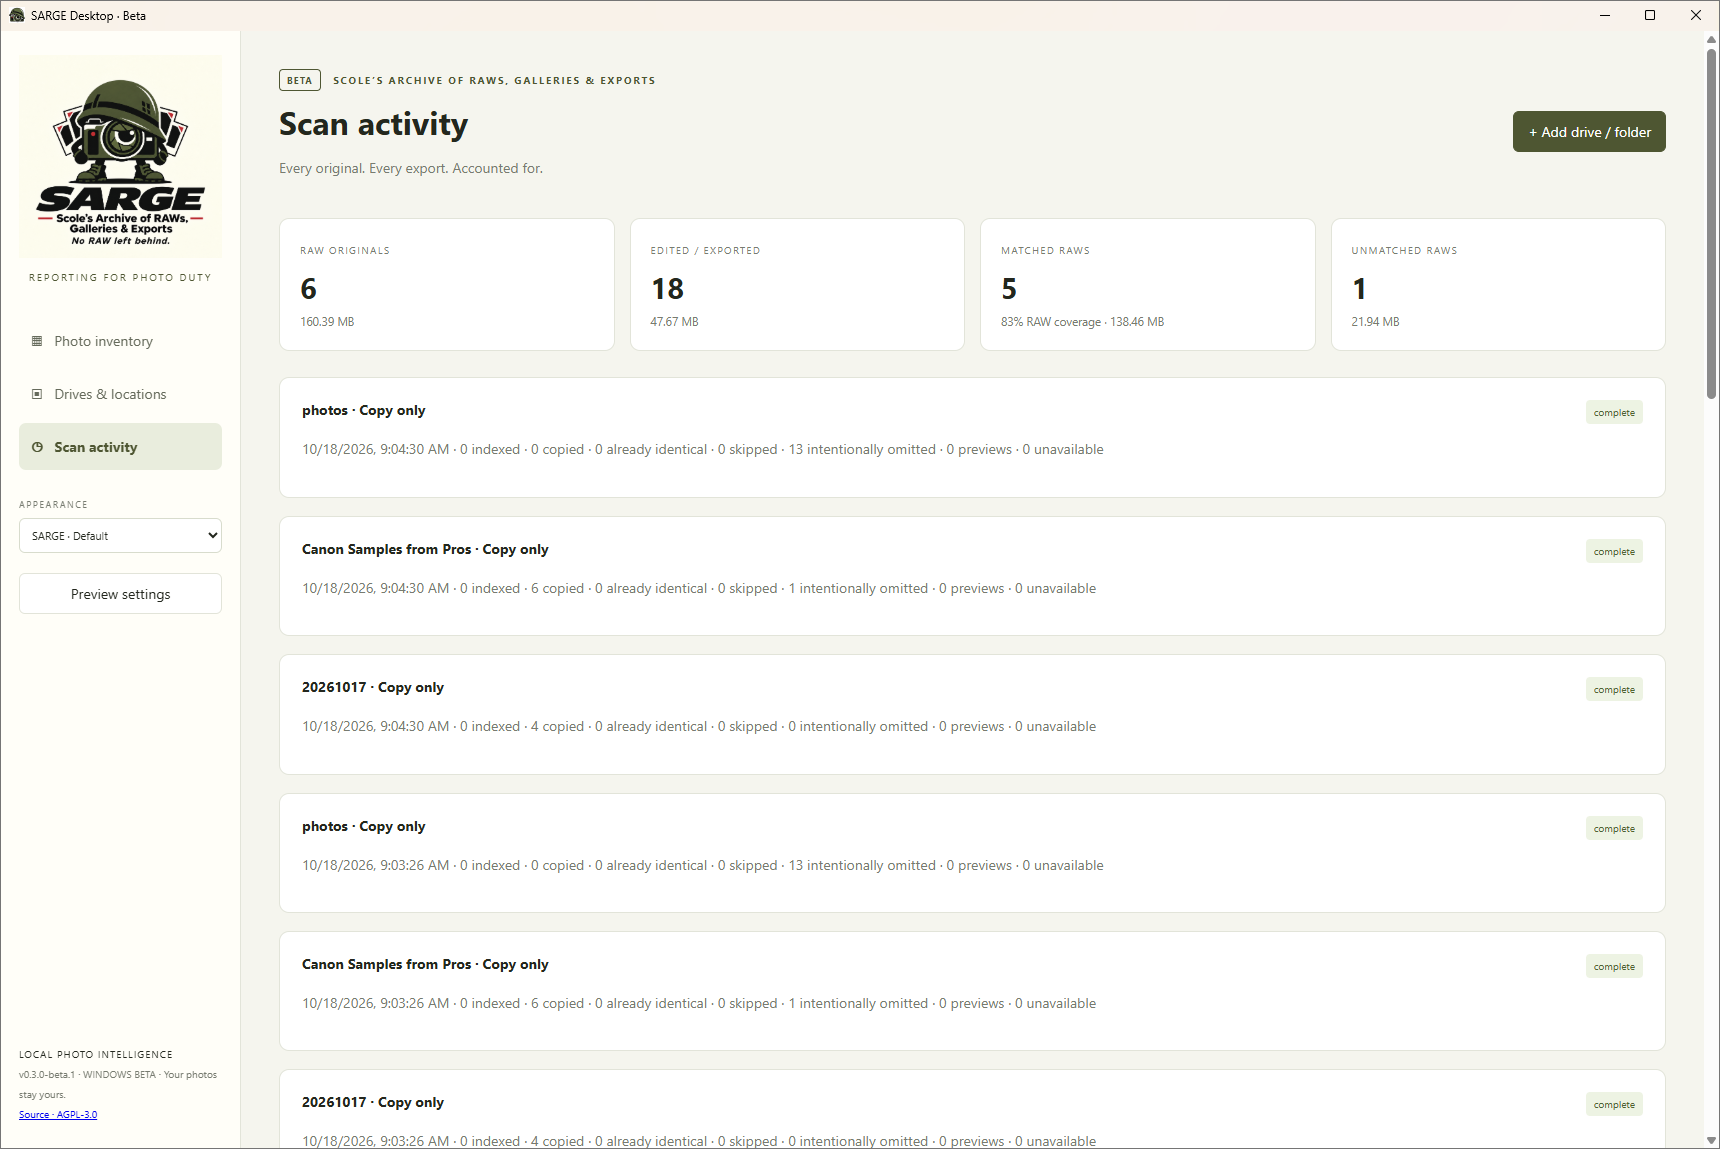
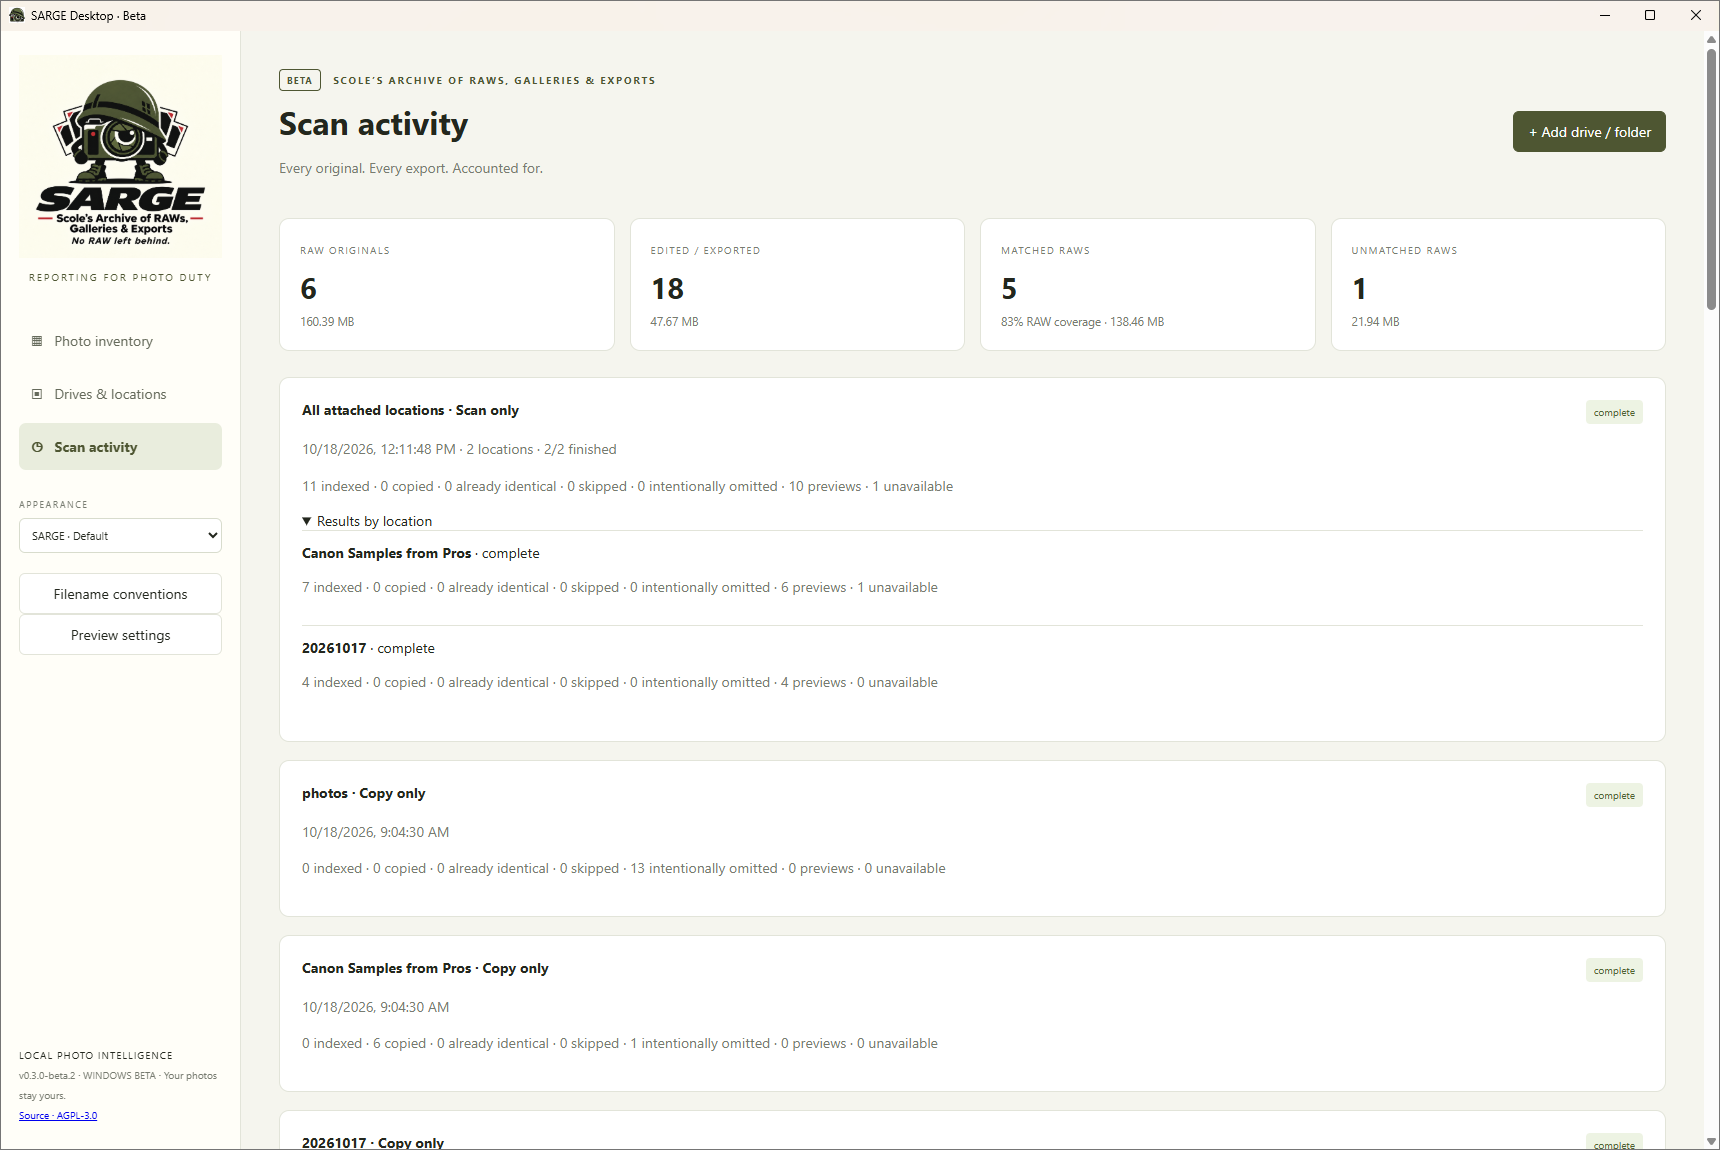
Refresh README with Windows beta 2 screenshots and feature walkthrough

diff --git a/README.md b/README.md
@@ -31,23 +31,53 @@ Windows 10/11 x64 is the primary target. No Docker, Python, helper, or ExifTool 
 
 Use **Appearance** in the sidebar to switch between **SARGE · Default**, with light backgrounds and olive accents, and **Solly’s Soldiers · Dark**, with white text and red, blue and green accents. The logo changes with the theme. Your choice is remembered on this computer.
 
-These captures show the installed Windows beta 0.3.0-beta.1 with a small test photo catalog. Updated captures of the beta.2 summaries, EXIF filters and filename configuration are pending; the images below have not been relabeled as the new version. See the [capture checklist](docs/SCREENSHOTS.md).
+These screenshots show the installed Windows **0.3.0-beta.2** with a sample photo catalog. Standard examples use the default theme; the final example shows Solly’s Soldiers · Dark. See the [capture checklist](docs/SCREENSHOTS.md).
 
-Photo inventory in the default theme, with cached previews, RAW/export match status and saved camera metadata.
+Photo inventory shows previews, RAW/export matches, sortable EXIF columns and filename-derived values. **Camera model (EXIF)** and **Camera body (Mapped)** are separate: the example shows Canon EOS 6D alongside the filename label `1DX`. Shutter speeds display as readable values such as **0.6 s** and **1/60 s**.
 
-![SARGE Desktop Photo inventory in the default theme, showing photo previews, matched RAWs and exports, and saved EXIF columns](docs/images/inventory-default.png)
+![SARGE Desktop beta 2 photo inventory in the default theme, with separate EXIF camera model and mapped camera body columns, previews and readable shutter speeds](docs/images/inventory-default.png)
 
-Drives & locations shows registered sources, online/offline counts and controls for scanning, copying and backing up the catalog.
+<details>
+<summary>More saved metadata columns</summary>
 
-![SARGE Desktop Drives and locations in the default theme, showing three registered locations, two online and one offline](docs/images/drives-default.png)
+Choose additional columns for capture time, dimensions, ISO, aperture, shutter speed and focal length. Saved values remain available when the source drive is disconnected.
 
-Scan activity records completed jobs and their copy, skip and intentionally omitted counts.
+![SARGE Desktop beta 2 inventory showing saved camera, lens, capture time, dimensions, ISO, aperture, shutter speed and focal length](docs/images/inventory-metadata-default.png)
 
-![SARGE Desktop Scan activity in the default theme, showing completed copy jobs and per-job results](docs/images/activity-default.png)
+</details>
 
-The same inventory in Solly’s Soldiers · Dark, with its alternate logo and the Appearance switcher visible.
+Drives & locations highlights registered, online and offline totals. Each location has file counts and sizes for all indexed images, RAW originals, edited/exported files, matched RAWs and unmatched RAWs.
 
-![SARGE Desktop Photo inventory in Solly’s Soldiers dark theme, showing the alternate mascot logo and Appearance selector](docs/images/theme-soldiers.png)
+![SARGE Desktop beta 2 Drives and locations with prominent online and offline totals and per-location counts and storage summaries](docs/images/drives-default.png)
+
+Bulk operations appear as one activity block with combined results. Expand **Results by location** to inspect individual sources; older history without a recorded batch identity remains separate.
+
+![SARGE Desktop beta 2 Scan activity with a completed bulk scan grouped into one block and expanded results for its two locations](docs/images/activity-default.png)
+
+**EXIF Filters** provides searchable values and counts from the saved catalog, plus numeric or date ranges where applicable. Filters work independently of displayed columns and combine with source, file-type and match-state filters.
+
+![SARGE Desktop beta 2 EXIF Filters dialog showing available ISO values, file counts and minimum and maximum range controls](docs/images/exif-filters-default.png)
+
+<details>
+<summary>Filter by camera model or missing metadata</summary>
+
+Select one or more actual camera models or **Not available**. Mapped filename fields are separate choices in the same field selector.
+
+![SARGE Desktop beta 2 camera model filter showing catalog-derived model choices, counts and Not available for missing metadata](docs/images/exif-camera-model-default.png)
+
+</details>
+
+**Filename conventions** manages rules for mapped fields without changing embedded EXIF or original files. The enabled default extracts the prefix before `_` as **Camera body (Mapped)** for CR2 files. Rules can be edited, disabled, removed and reordered; saving reapplies them to saved filenames, including offline locations.
+
+![SARGE Desktop beta 2 Filename conventions settings with the enabled default CR2 camera body rule and controls to edit, remove, reorder and save rules](docs/images/filename-conventions-default.png)
+
+Build a rule visually: choose an example, highlight the desired value, select its mapped field and applicable file types, then test the results. Here `1DX_1234.cr2` produces `1DX`, while JPG files do not match the CR2-only rule.
+
+![SARGE Desktop beta 2 visual filename rule builder with 1DX highlighted, Camera body selected, CR2 enabled and preview results for saved filenames](docs/images/filename-rule-builder-default.png)
+
+The same inventory in **Solly’s Soldiers · Dark**, with its alternate logo and the Appearance switcher visible.
+
+![SARGE Desktop beta 2 inventory in Solly’s Soldiers dark theme with its alternate logo, Appearance selector and separate EXIF and mapped camera columns](docs/images/theme-soldiers.png)
 
 ## Updating from the desktop alpha
 

diff --git a/docs/SCREENSHOTS.md b/docs/SCREENSHOTS.md
@@ -1,6 +1,6 @@
 # Windows screenshot checklist
 
-Capture the installed SARGE Desktop **0.3.0-beta.2 or newer** on the Windows PC using the current catalog. Existing README images were captured on beta.1; replace them only with actual new captures. No Docker screens, generated screens or fabricated inventory.
+Capture the installed SARGE Desktop **0.3.0-beta.2 or newer** on the Windows PC using the current catalog. Current README images were captured on beta.2; replace them with actual new captures when the UI or version changes. No Docker screens, generated screens or fabricated inventory.
 
 Use **SARGE · Default** for all standard screens. Use one consistent window size (at least 1380 × 900; wider if needed for columns), keep the app title/version visible where possible and close unrelated dialogs and transient notices. Review the real names, paths and image previews for suitability before publishing.
 
